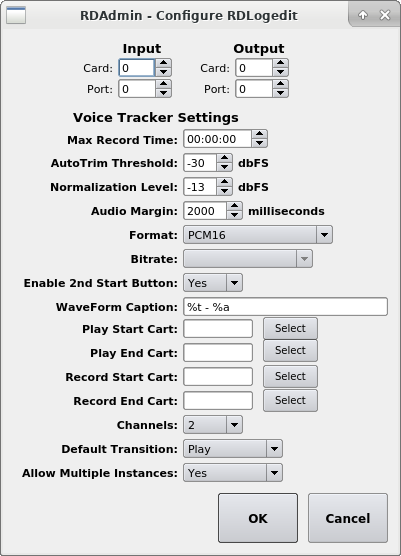
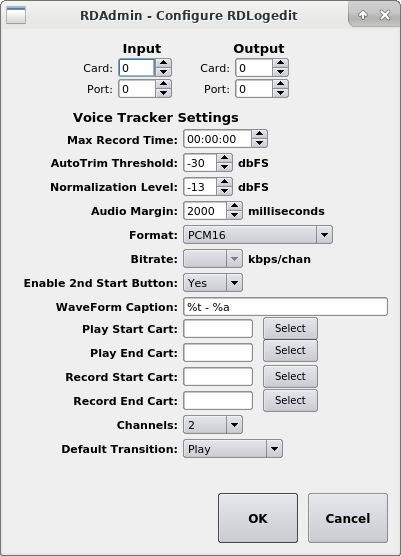
2023-02-28 Fred Gleason <fredg@paravelsystems.com> 	* Fixed a regression in rdadmin(1) that caused the 	'Configure RDLogEdit' dialog save the 'Bitrate' value to 	'128 kbps/chan' when using 'MPEG Layer 2' format regardless of the 	setting of the 'Bitrate' control.

Changed region(s): [[0.0599, 0.8255, 0.7182, 0.8867], [0.5985, 0.4586, 0.7781, 0.4892]]

diff --git a/rdadmin/edit_rdlogedit.cpp b/rdadmin/edit_rdlogedit.cpp
@@ -158,11 +158,15 @@ EditRDLogedit::EditRDLogedit(RDStation *station,RDStation *cae_station,
   // Bitrate
   //
   lib_bitrate_box=new QComboBox(this);
-  lib_bitrate_box->setGeometry(180,220,130,19);
+  lib_bitrate_box->setGeometry(180,220,60,19);
   QLabel *lib_bitrate_label=new QLabel(tr("Bitrate:"),this);
   lib_bitrate_label->setFont(labelFont());
   lib_bitrate_label->setGeometry(25,220,150,19);
   lib_bitrate_label->setAlignment(Qt::AlignRight|Qt::AlignVCenter);
+  QLabel *lib_bitrate_unit=new QLabel(tr("kbps/chan"),this);
+  lib_bitrate_unit->setFont(labelFont());
+  lib_bitrate_unit->setGeometry(245,220,150,19);
+  lib_bitrate_unit->setAlignment(Qt::AlignLeft|Qt::AlignVCenter);
 
   //
   // Enable Second Start Button
@@ -515,16 +519,16 @@ void EditRDLogedit::ShowBitRates(int index,int rate)
 
   case 2:  // MPEG-1 Layer 2
     lib_bitrate_box->setEnabled(true);
-    lib_bitrate_box->insertItem(lib_bitrate_box->count(),tr("32 kbps/chan"));
-    lib_bitrate_box->insertItem(lib_bitrate_box->count(),tr("48 kbps/chan"));
-    lib_bitrate_box->insertItem(lib_bitrate_box->count(),tr("56 kbps/chan"));
-    lib_bitrate_box->insertItem(lib_bitrate_box->count(),tr("64 kbps/chan"));
-    lib_bitrate_box->insertItem(lib_bitrate_box->count(),tr("80 kbps/chan"));
-    lib_bitrate_box->insertItem(lib_bitrate_box->count(),tr("96 kbps/chan"));
-    lib_bitrate_box->insertItem(lib_bitrate_box->count(),tr("112 kbps/chan"));
-    lib_bitrate_box->insertItem(lib_bitrate_box->count(),tr("128 kbps/chan"));
-    lib_bitrate_box->insertItem(lib_bitrate_box->count(),tr("160 kbps/chan"));
-    lib_bitrate_box->insertItem(lib_bitrate_box->count(),tr("192 kbps/chan"));
+    lib_bitrate_box->insertItem(lib_bitrate_box->count(),"32");
+    lib_bitrate_box->insertItem(lib_bitrate_box->count(),"48");
+    lib_bitrate_box->insertItem(lib_bitrate_box->count(),"56");
+    lib_bitrate_box->insertItem(lib_bitrate_box->count(),"64");
+    lib_bitrate_box->insertItem(lib_bitrate_box->count(),"80");
+    lib_bitrate_box->insertItem(lib_bitrate_box->count(),"96");
+    lib_bitrate_box->insertItem(lib_bitrate_box->count(),"112");
+    lib_bitrate_box->insertItem(lib_bitrate_box->count(),"128");
+    lib_bitrate_box->insertItem(lib_bitrate_box->count(),"160");
+    lib_bitrate_box->insertItem(lib_bitrate_box->count(),"192");
     switch(lib_lib->bitrate()) {
     case 32000:
       lib_bitrate_box->setCurrentIndex(0);
